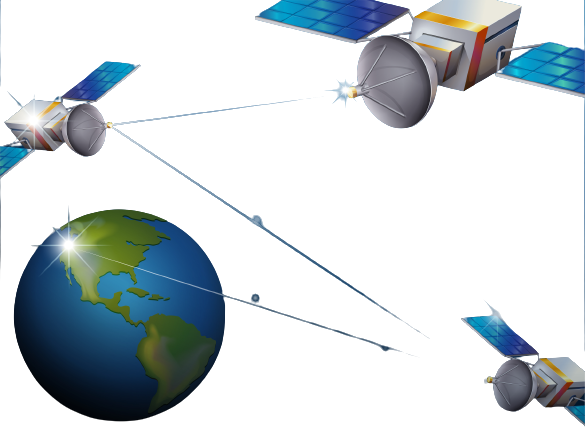
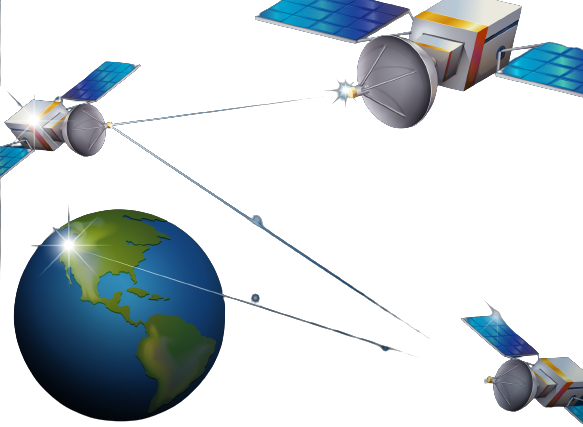
product page done

diff --git a/src/pages/Products/ProductCard.jsx b/src/pages/Products/ProductCard.jsx
@@ -26,15 +26,15 @@ const ProductCard = ({ title, image, details, position }) => {
         {/* // Large Screens - Position: left */}
         {position === 'left' && (
           <div className="hidden flex lg:block h-screen">
-            <div className="relative top-[170px] left-20 xl:left-28 text-left w-1/2">
-            <p className="text-5xl xl:text-8xl mb-4 py-4">{title}</p>
+            <div className="relative top-[30vh] left-10 xl:left-20 text-left w-[30vw]">
+            <p className="text-5xl xl:text-6xl mb-4 py-4">{title}</p>
               <p className="text-xl">{details}</p>
             </div>
-            <div className="flex flex-row justify-center w-1/3 xl:w-1/2">
+            <div className="flex flex-row justify-center w-1/3 xl:w-[70vw]">
               <img
                 src={image}
                 alt={title}
-                className="relative bottom-[200px] left-[600px] xl:left-[700px] 2xl:left-[900px] w-[50vh] h-[50vh] hover:scale-110 transform transition duration-500 ease-in-out"
+                className="relative bottom-[100px] left-[450px]  w-[70vh] h-[70vh] hover:scale-110 transform transition duration-500 ease-in-out"
               />
             </div>
           </div>
@@ -48,11 +48,11 @@ const ProductCard = ({ title, image, details, position }) => {
                 <img
                   src={image}
                   alt={title}
-                  className="relative top-[170px] left-[50px] xl:left-[100px] 2xl:left-[200px] w-[50vh] h-[50vh] hover:scale-110 transform transition duration-500 ease-in-out"
+                  className="relative top-[100px] left-[50px] xl:left-[100px]  w-[60vh] h-[60vh] hover:scale-110 transform transition duration-500 ease-in-out"
                 />
               </div>
-              <div className="relative text-left top-[170px] left-[200px] xl:left-[200px] 2xl:left-[300px] w-1/2">
-                <p className="text-5xl xl:text-8xl mb-4 py-4">{title}</p>
+              <div className="relative text-left top-[170px] left-[200px] xl:left-[300px] 2xl:left-[300px] w-1/2">
+                <p className="text-4xl xl:text-6xl mb-4 py-4">{title}</p>
                 <p className="text-xl">{details}</p>
               </div>
             </div>

diff --git a/src/pages/Products/Products.jsx b/src/pages/Products/Products.jsx
@@ -3,32 +3,32 @@ import ProductCard from './ProductCard';  // Import the ProductCard component
 import product1_vector from '../../assets/product1_vector.svg';
 import product1 from '../../assets/product1.png';
 import product2_vector from '../../assets/product2_vector.svg';
-import product2 from '../../assets/product2.png';
+import product2 from '../../assets/product2new.png';
 import product3_vector from '../../assets/product3_vector.svg';
 import product3 from '../../assets/product3.png';
 import product4 from '../../assets/product4.png';
 
 const productData = [
   {
-    title: 'Product 1: Ground to Space',
+    title: 'Ground to Space',
     image: product1,
     details: 'It’s a beautiful dual channel-based Ground to Space Communication Link that has bandwidth flexibilities ranging 1Gbps to as high as 10Gbps.',
     position: 'left'
   },
   {
-    title: 'Product 2: Same Orbit Communication ',
+    title: 'Same Orbit Communication ',
     image: product2,
     details: 'A smart meshing capability induced Optical Payload for LEO – LEO Intersatellite communication but same orbit.',
     position: 'left'
   },
   {
-    title: 'Product 3: Different Orbit Communication',
+    title: 'Different Orbit Communication',
     image: product3,
     details: 'Big Brother to our earlier model. Induced Optical Payload for LEO – LEO Intersatellite communication but different orbit, Azimuthal.',
     position: 'right'
   },
   {
-    title: 'Product 4: Multiple Higher Orbit Communication from ground to Space',
+    title: 'Multiple Higher Orbit Communication from ground to Space',
     image: product4,
     details: 'The GodFather. Can parcel your data 80000km away and back. More power, highly efficient.',
     position: 'right'
